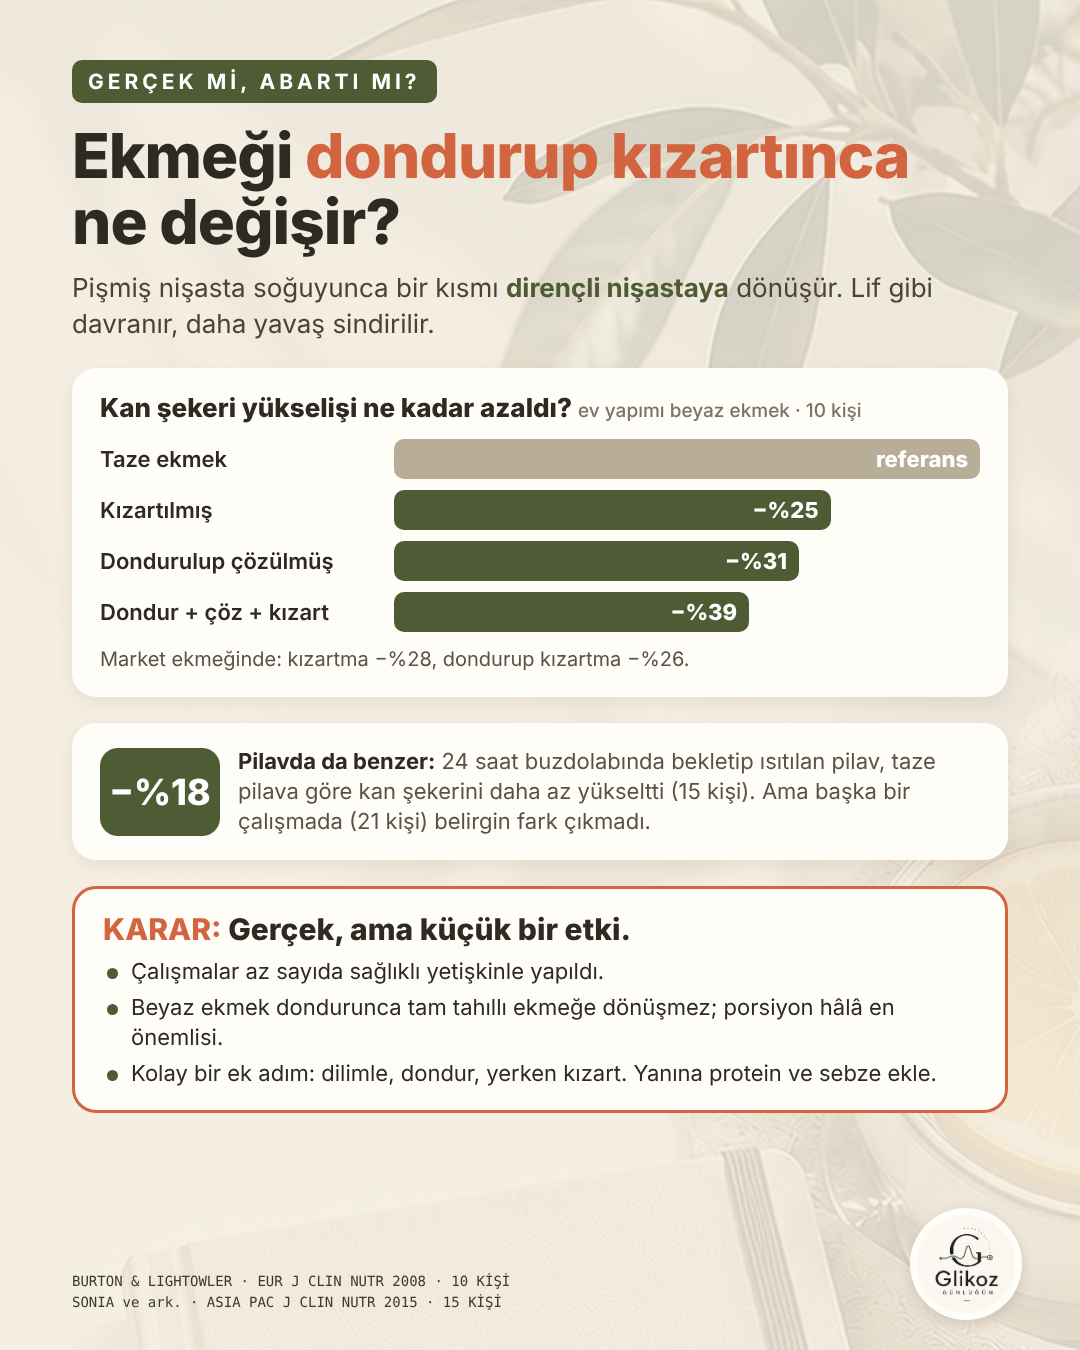
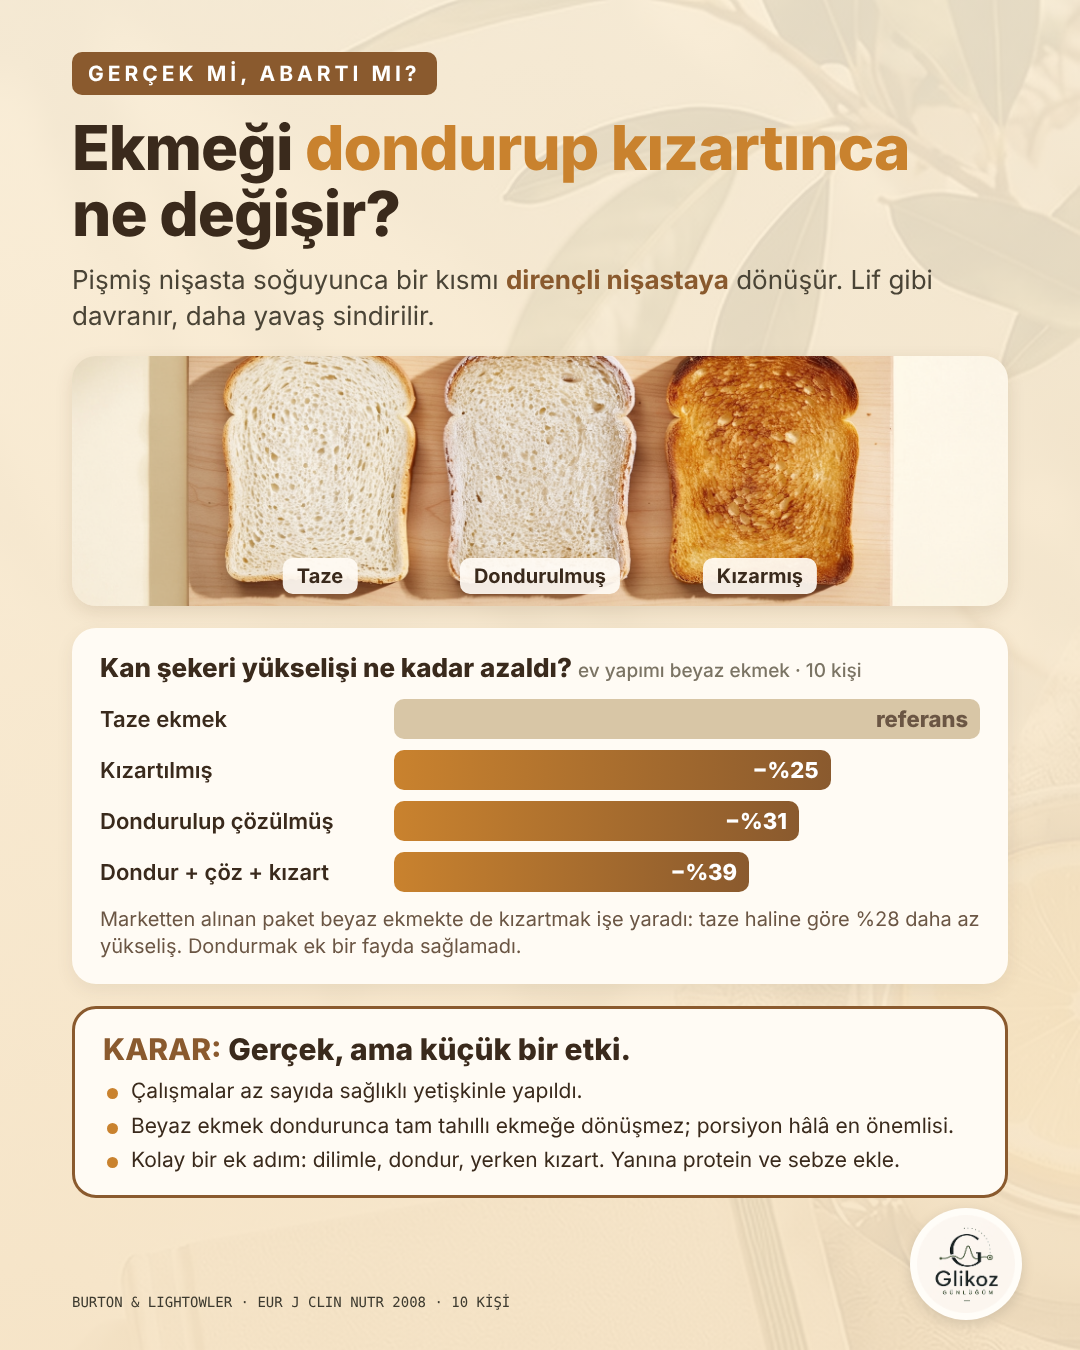
Ekmek infografiği: pilav çıkarıldı, yeni renkler ve ekmek fotoğrafı
Claude-Session: https://claude.ai/code/session_01PodALZxLYw8PobL4KMLty5

diff --git a/infografik/ekmek-dondur/ekmek.html b/infografik/ekmek-dondur/ekmek.html
@@ -1,34 +1,35 @@
 <!DOCTYPE html>
 <html lang="tr"><head><meta charset="utf-8">
 <style>
-:root{--bg:#F5EFE3;--ink:#2E2A22;--olive:#4E5B34;--tile:#D2643F;--card:#FFFDF8;--mute:#5a5345}
+:root{--bg:#FAF1E2;--ink:#3A2A1C;--olive:#8A5A2E;--tile:#C9822E;--card:#FFFBF4;--mute:#6B5644}
 *{box-sizing:border-box;margin:0;padding:0}
 body{width:1080px;height:1350px;font-family:'Inter';color:var(--ink);position:relative;overflow:hidden;background:url(bg.jpg) center/cover}
-.veil{position:absolute;inset:0;background:rgba(245,239,227,.86)}
+.veil{position:absolute;inset:0;background:linear-gradient(180deg,rgba(250,238,215,.90),rgba(246,228,198,.92))}
 .wrap{position:relative;z-index:1}
-header{padding:60px 72px 0}
+header{padding:52px 72px 0}
 .tag{display:inline-block;font:700 21px Inter;letter-spacing:4px;color:#fff;background:var(--olive);padding:9px 16px;border-radius:10px}
 h1{font:800 62px/1.06 Inter;margin-top:20px;letter-spacing:-1px}
 h1 em{font-style:normal;color:var(--tile)}
 .sub{font:400 26px/1.38 Inter;margin-top:16px;color:#4a4436;max-width:900px}
 .sub b{color:var(--olive)}
-.card{margin:26px 72px 0;background:var(--card);border-radius:24px;padding:24px 28px;box-shadow:0 6px 18px rgba(80,70,50,.08)}
+.card{margin:22px 72px 0;background:var(--card);border-radius:24px;padding:24px 28px;box-shadow:0 6px 18px rgba(80,70,50,.08)}
 .card h2{font:800 26px/1.2 Inter}
 .card h2 small{font:500 19px Inter;color:#7B7464;margin-left:6px}
 .bars{margin-top:16px;display:flex;flex-direction:column;gap:11px}
 .row{display:grid;grid-template-columns:280px 1fr;align-items:center;gap:14px}
 .row .l{font:600 22px Inter}
 .bar{height:40px;border-radius:10px;display:flex;align-items:center;justify-content:flex-end;padding-right:12px;font:800 22px Inter;color:#fff}
-.b0{background:#B8AE97}.b1{background:var(--olive)}
+.b0{background:#D8C6A6;color:#6B5644}.b1{background:linear-gradient(90deg,#C9822E,#8A5A2E)}
 .note{margin-top:14px;font:400 20px/1.35 Inter;color:var(--mute)}
-.rice{display:flex;gap:18px;align-items:center}
-.rice .pct{flex:0 0 120px;height:88px;border-radius:18px;background:var(--olive);color:#fff;font:800 36px Inter;display:flex;align-items:center;justify-content:center}
-.rice p{font:400 22px/1.35 Inter;color:var(--mute)} .rice p b{color:var(--ink)}
-.verdict{margin:26px 72px 0;border:3px solid var(--tile);background:var(--card);border-radius:24px;padding:22px 28px}
-.verdict h2{font:800 30px Inter;color:var(--tile)} .verdict h2 span{color:var(--ink)}
+.verdict{margin:22px 72px 0;border:3px solid var(--olive);background:var(--card);border-radius:24px;padding:22px 28px}
+.verdict h2{font:800 30px Inter;color:var(--olive)} .verdict h2 span{color:var(--ink)}
 .verdict ul{list-style:none;margin-top:10px;display:flex;flex-direction:column;gap:7px}
-.verdict li{font:400 22px/1.32 Inter;padding-left:28px;position:relative}
-.verdict li:before{content:'';position:absolute;left:4px;top:11px;width:11px;height:11px;border-radius:50%;background:var(--olive)}
+.verdict li{font:400 21px/1.3 Inter;padding-left:28px;position:relative}
+.verdict li:before{content:'';position:absolute;left:4px;top:11px;width:11px;height:11px;border-radius:50%;background:var(--tile)}
+.photo{margin:22px 72px 0;position:relative;border-radius:24px;overflow:hidden;height:250px;box-shadow:0 6px 18px rgba(80,50,20,.12)}
+.photo img{width:100%;height:100%;object-fit:cover;object-position:center 52%}
+.photo .cap span{position:absolute;bottom:12px;transform:translateX(-50%)}
+.photo .cap span{font:700 20px Inter;background:rgba(255,251,244,.92);color:var(--ink);padding:6px 14px;border-radius:10px}
 .src{position:absolute;left:72px;bottom:38px;font:400 14px/1.45 'DejaVu Sans Mono',monospace;color:#3d3a2f;max-width:800px;z-index:2}
 .logo{position:absolute;right:58px;bottom:30px;width:112px;height:112px;border-radius:50%;background:#FFFDF8;display:flex;align-items:center;justify-content:center;z-index:2;box-shadow:0 4px 14px rgba(0,0,0,.12)}
 .logo img{width:98px}
@@ -40,6 +41,7 @@ h1 em{font-style:normal;color:var(--tile)}
   <h1>Ekmeği <em>dondurup kızartınca</em><br>ne değişir?</h1>
   <p class="sub">Pişmiş nişasta soğuyunca bir kısmı <b>dirençli nişastaya</b> dönüşür. Lif gibi davranır, daha yavaş sindirilir.</p>
 </header>
+<div class="photo"><img src="ekmekler.png"><div class="cap"><span style="left:26.5%">Taze</span><span style="left:50%">Dondurulmuş</span><span style="left:73.5%">Kızarmış</span></div></div>
 <div class="card">
   <h2>Kan şekeri yükselişi ne kadar azaldı?<small>ev yapımı beyaz ekmek · 10 kişi</small></h2>
   <div class="bars">
@@ -48,11 +50,7 @@ h1 em{font-style:normal;color:var(--tile)}
     <div class="row"><div class="l">Dondurulup çözülmüş</div><div class="bar b1" style="width:69.1%">−%31</div></div>
     <div class="row"><div class="l">Dondur + çöz + kızart</div><div class="bar b1" style="width:60.6%">−%39</div></div>
   </div>
-  <p class="note">Market ekmeğinde: kızartma −%28, dondurup kızartma −%26.</p>
-</div>
-<div class="card rice">
-  <div class="pct">−%18</div>
-  <p><b>Pilavda da benzer:</b> 24 saat buzdolabında bekletip ısıtılan pilav, taze pilava göre kan şekerini daha az yükseltti (15 kişi). Ama başka bir çalışmada (21 kişi) belirgin fark çıkmadı.</p>
+  <p class="note">Marketten alınan paket beyaz ekmekte de kızartmak işe yaradı: taze haline göre %28 daha az yükseliş. Dondurmak ek bir fayda sağlamadı.</p>
 </div>
 <div class="verdict">
   <h2>KARAR: <span>Gerçek, ama küçük bir etki.</span></h2>
@@ -63,6 +61,6 @@ h1 em{font-style:normal;color:var(--tile)}
   </ul>
 </div>
 </div>
-<div class="src">BURTON &amp; LIGHTOWLER · EUR J CLIN NUTR 2008 · 10 KİŞİ<br>SONIA ve ark. · ASIA PAC J CLIN NUTR 2015 · 15 KİŞİ</div>
+<div class="src">BURTON &amp; LIGHTOWLER · EUR J CLIN NUTR 2008 · 10 KİŞİ</div>
 <div class="logo"><img src="../../engine/assets/logo.png"></div>
 </body></html>

diff --git a/SESSIONS.md b/SESSIONS.md
@@ -31,3 +31,4 @@
 - 2026-11-20: 016: 'Zayıf sosyal bağların sağlığa etkisi, günde 15 sigara içmekle kıyaslanacak düzeyde.' (45,5 sn).
 - 2026-11-20: 014: sahneler cümlelere göre bölündü (9 sahne, 6 yeni görsel), %21 cümlesi netleştirildi, altyazı 54, marka arka planı; 50,5 sn.
 - 2026-11-20: Infografik 'Ekmeği dondurup kızartınca ne değişir?' (dirençli nişasta; Burton 2008, Sonia 2015), marka fotoğrafı zeminli.
+- 2026-11-20: Ekmek infografiği: pilav çıkarıldı, sıcak ekmek renkleri, taze/donmuş/kızarmış ekmek fotoğrafı, market ekmeği cümlesi netleştirildi.
